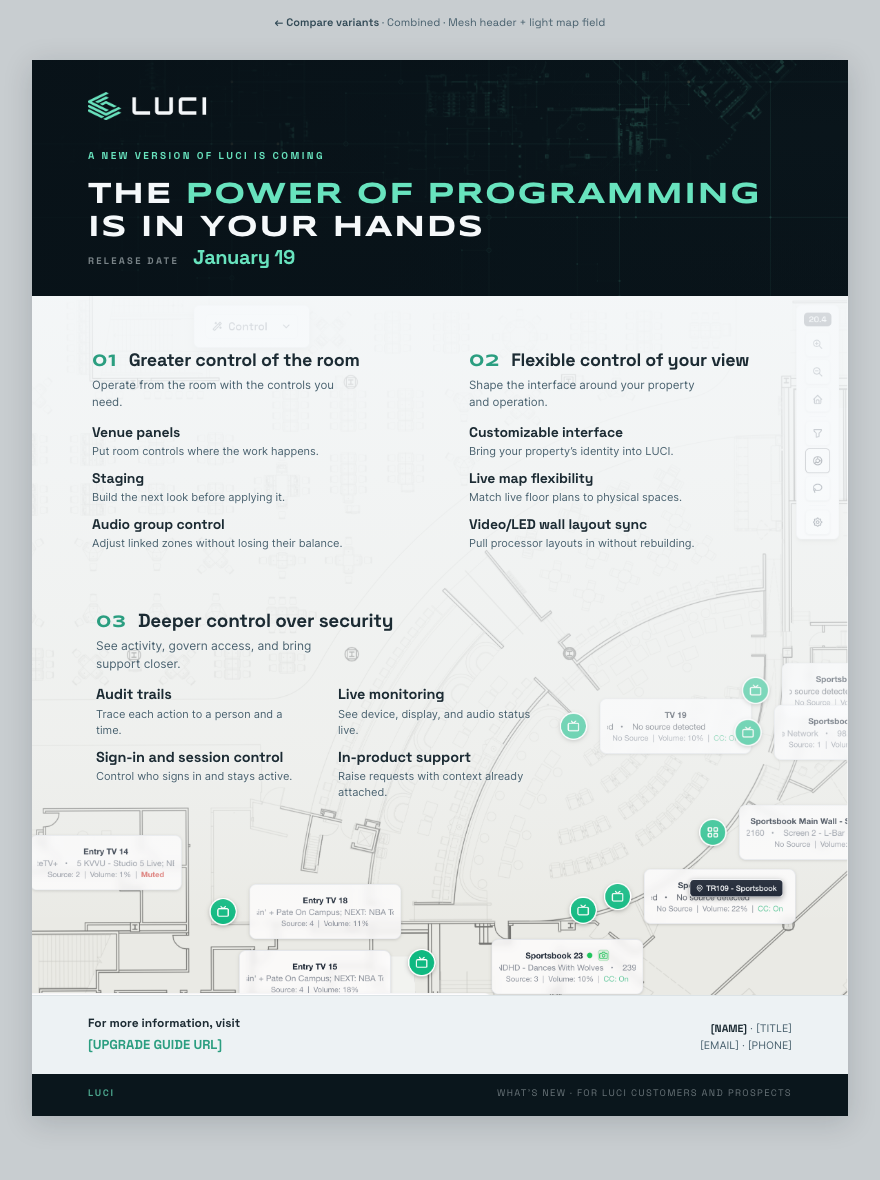
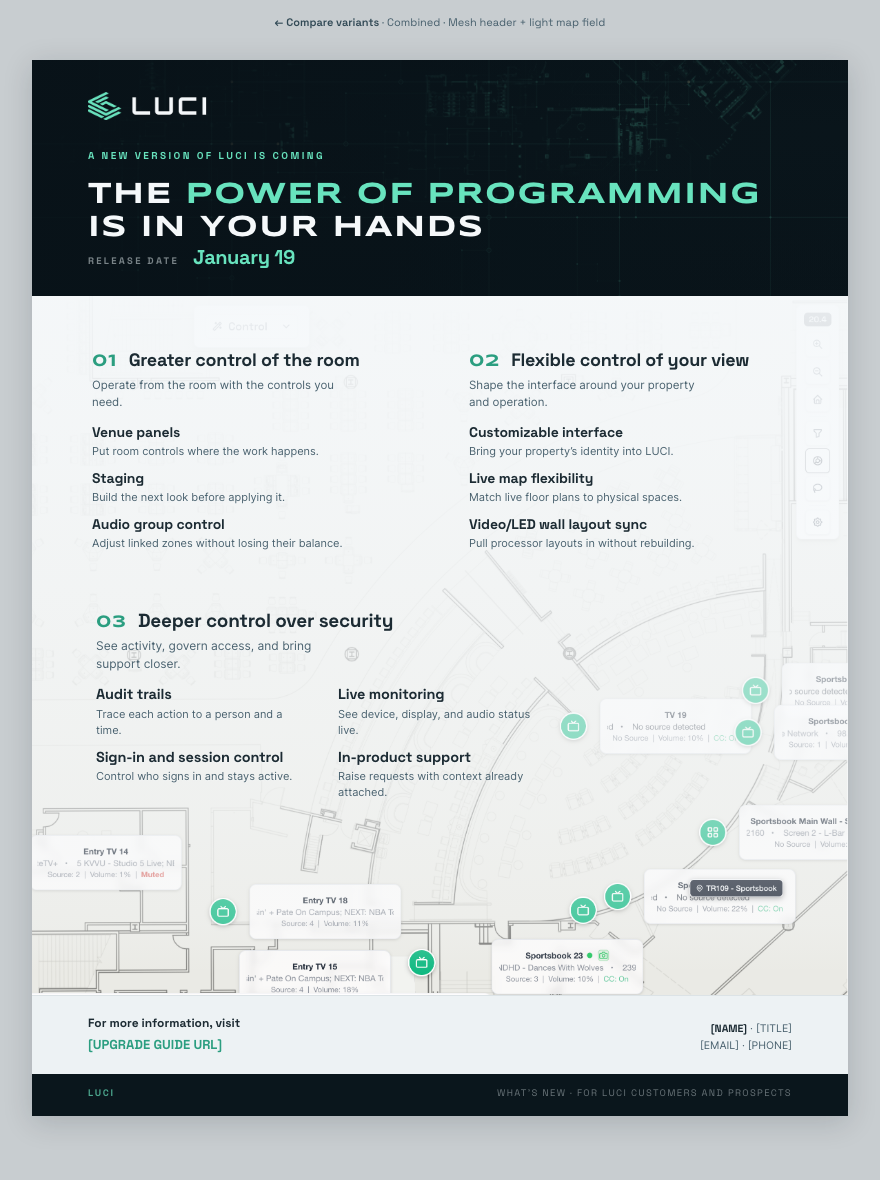
What's New one-pager: stronger and wider fade behind text
Bump opacity further (top 0.94, mid 0.66, lower 0.48
at 74%) and push the clear point down to 97% so the
strong fade covers nearly the full text area; only the
very bottom edge clears for the backwards-L.

diff --git a/LUCI Systems Design System/ui_kits/sales/new-luci-whats-new-onepager-flow-c.html b/LUCI Systems Design System/ui_kits/sales/new-luci-whats-new-onepager-flow-c.html
@@ -80,9 +80,9 @@ body{font-family:var(--font-body);background:#c8cdd0;color:var(--ink);font-size:
      instead of sitting under them. Clears by mid-field for the backwards L. */
 .field__scrim{position:absolute;inset:0;z-index:1;pointer-events:none;
   background:linear-gradient(to bottom,
-    rgba(245,248,250,0.88) 0%, rgba(245,248,250,0.74) 22%,
-    rgba(245,248,250,0.58) 44%, rgba(245,248,250,0.40) 66%,
-    rgba(245,248,250,0.20) 80%, transparent 90%)}}
+    rgba(245,248,250,0.94) 0%, rgba(245,248,250,0.82) 26%,
+    rgba(245,248,250,0.66) 50%, rgba(245,248,250,0.48) 74%,
+    rgba(245,248,250,0.26) 90%, transparent 97%)}}
 
 .copy{position:relative;z-index:2;height:100%;display:flex;flex-direction:column;
   padding:18px 32px 34px}
